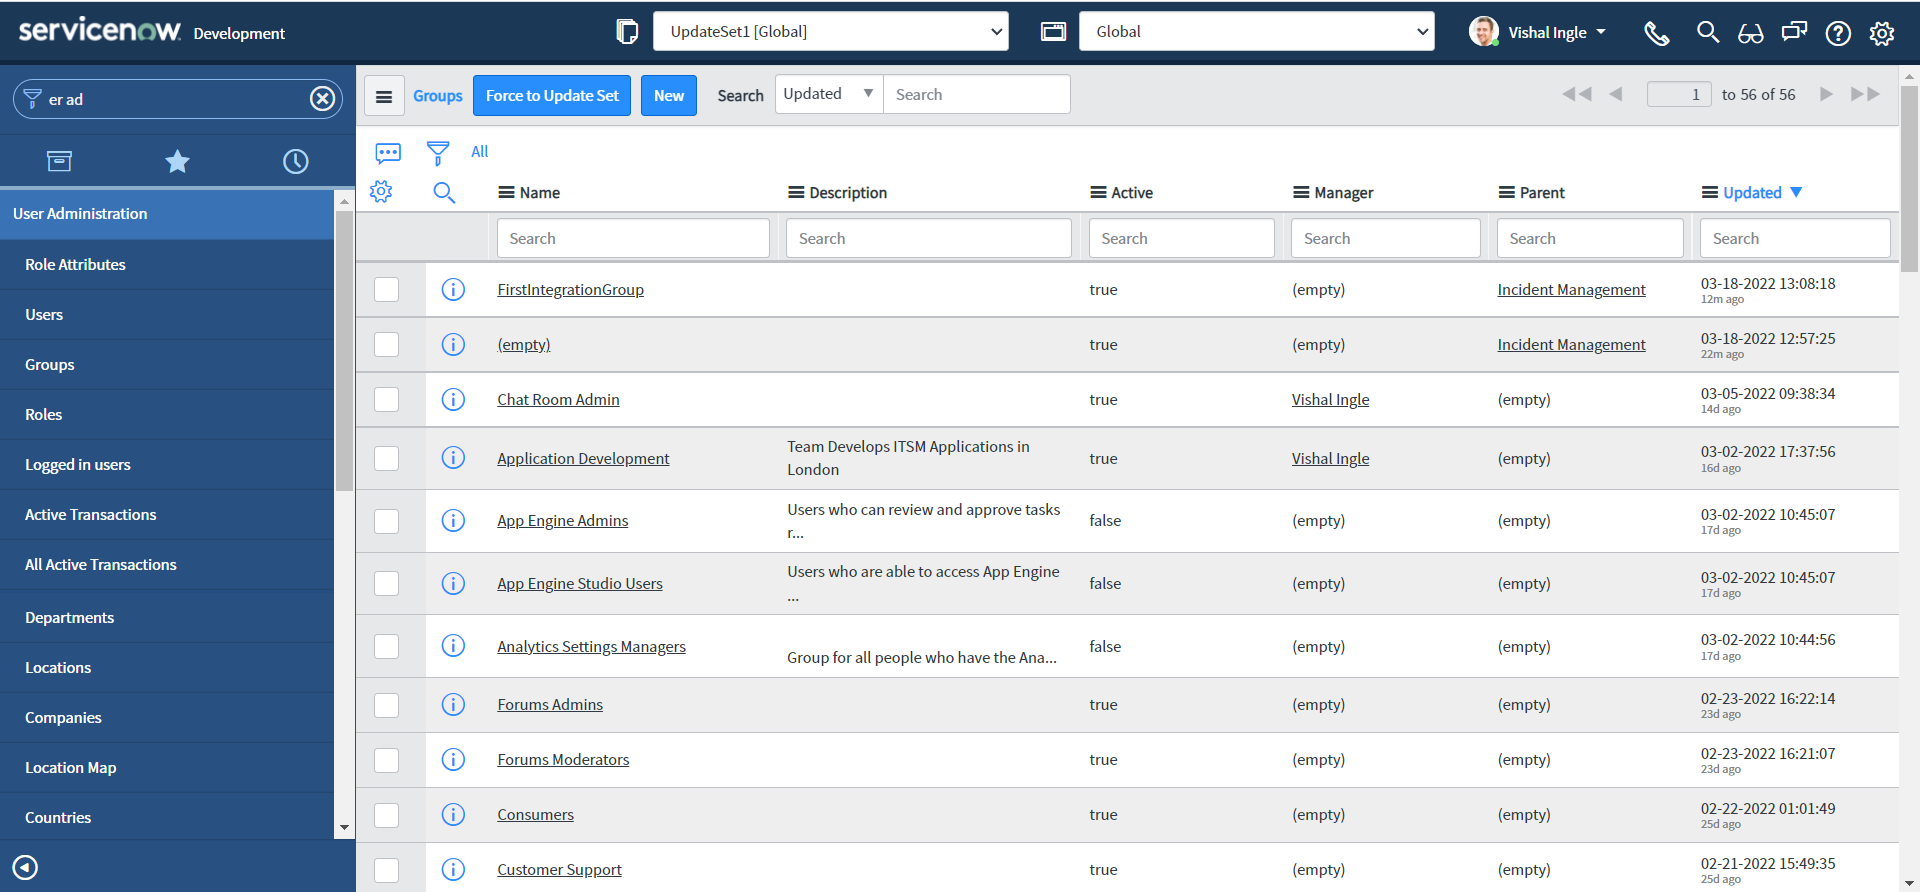
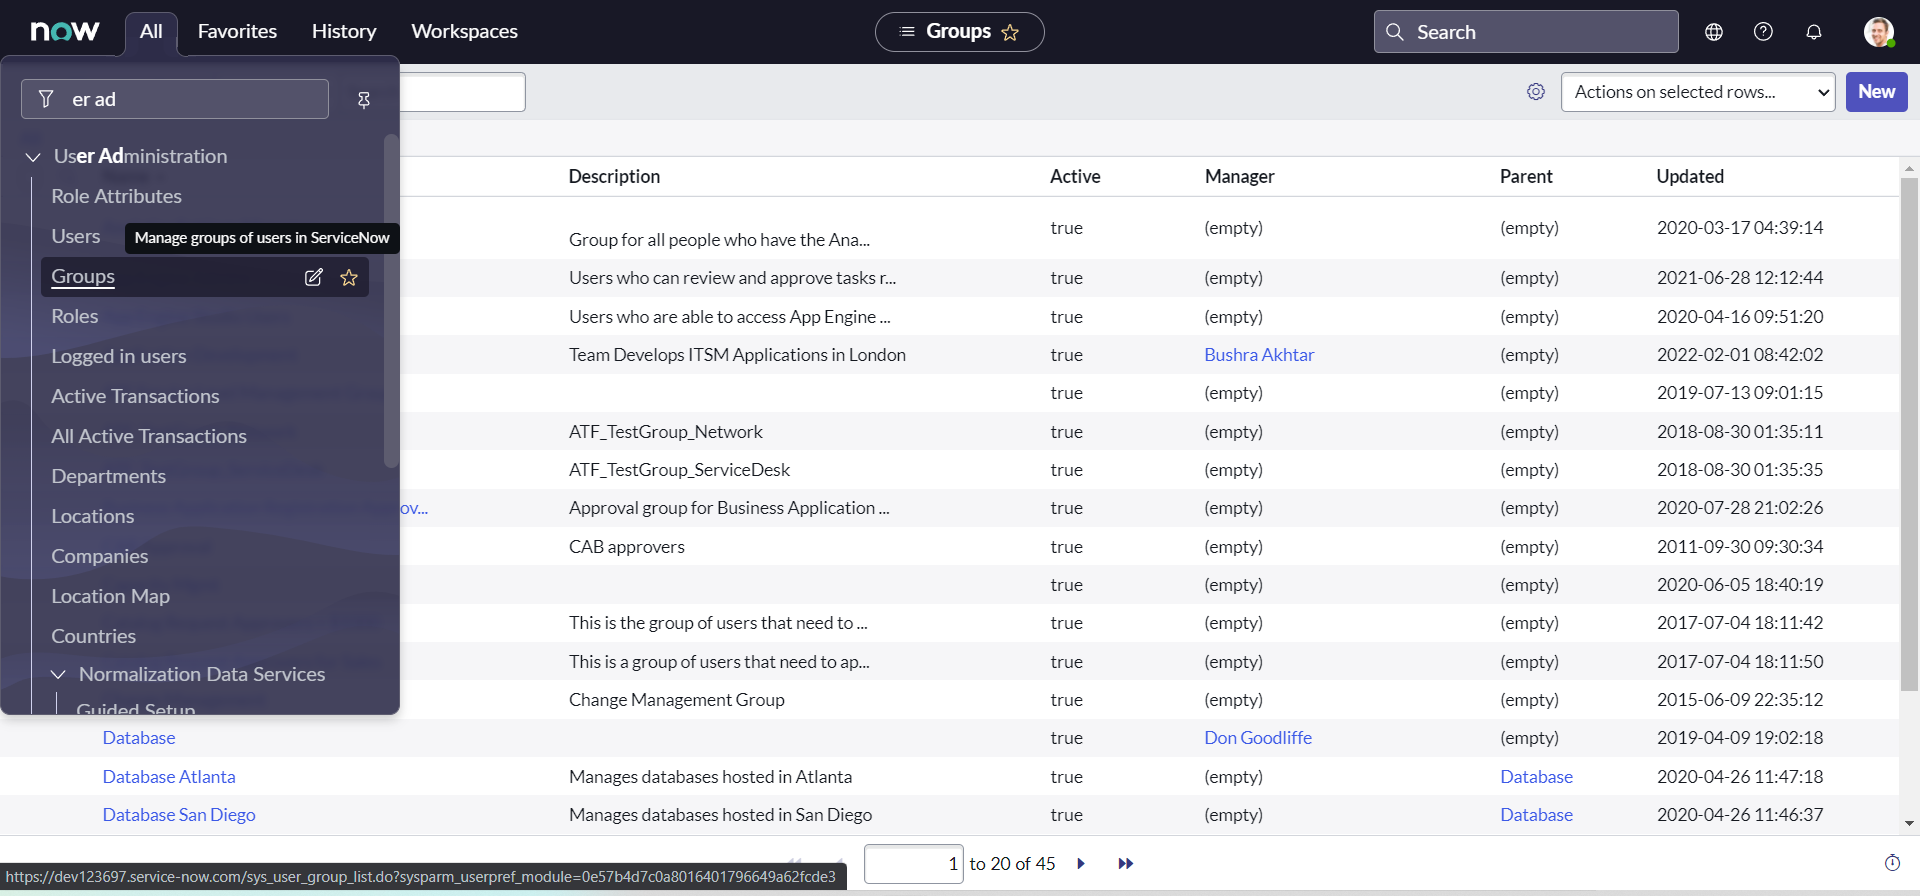
SA 4.0.4

diff --git a/Chapter4_ImplementingOurFirstIntegration.md b/Chapter4_ImplementingOurFirstIntegration.md
@@ -282,7 +282,7 @@ gs.log(response.getBody())
 
 ## Setting up the Vendor Instance
 
-&nbsp;&nbsp;&nbsp;&nbsp;We have everything that we need from our customer instance set up, but we still need to set our Vendor instance. I have borrowed another PDI from one of my friend to use as Vendor instance, and we are ready fix the prerequisites.
+&nbsp;&nbsp;&nbsp;&nbsp;We have everything that we need from our customer instance set up, but we still need to set our Vendor instance. I have borrowed another PDI from one of my friend to use as Vendor instance, and we are ready fix the prerequisites. However, The San Diego Release of ServiceNow comes with a brand new interface known as the Next Experience UI, or also internally known as Polaris, So you might experience a different look and feel on our Vendor instance. In a way it is good for us as we will be able to easily identify which is our Customer instance (UI16) or Vendor instance (Plaris).
 
 ### Assignment group
 
@@ -290,6 +290,7 @@ gs.log(response.getBody())
 
 - Navigate to **User Administration > Groups** and click **New** button:
   ![vnd1](./images/vnd1.png)
+  ![vnd1_1](./images/vnd1_1.png)
 
 - Create a group with Name as "VendorAssignmentGroup", Type as "itil" & Parent as "Incident Management" and click **Submit** button:
   ![vnd2](./images/vnd2.png)
@@ -302,6 +303,7 @@ gs.log(response.getBody())
 - Navigate to **Incident > Open** in a new tab, Click any incident number to open the incident form:
   ![vnd4](./images/vnd4.png)
   ![vnd5](./images/vnd5.png)
+  ![vnd5_1](./images/vnd5_1.png)
 - Right-click the **On hold reason** field label and select **Configure Choices**. The Configuring State Choices slushbucket will open.
   ![vnd6](./images/vnd6.png)
   ![vnd7](./images/vnd7.png)
@@ -311,5 +313,5 @@ gs.log(response.getBody())
 - Click **Save**.
   ![vnd9](./images/vnd9.png)
 
-&nbsp;&nbsp;&nbsp;&nbsp;If we did everything correctly, we should have and additional contact type now named "API":
+&nbsp;&nbsp;&nbsp;&nbsp;If we did everything correctly, we should have and additional On hold reason choice as "Awaiting Company A Validation":
 ![vnd10](./images/vnd10.png)
